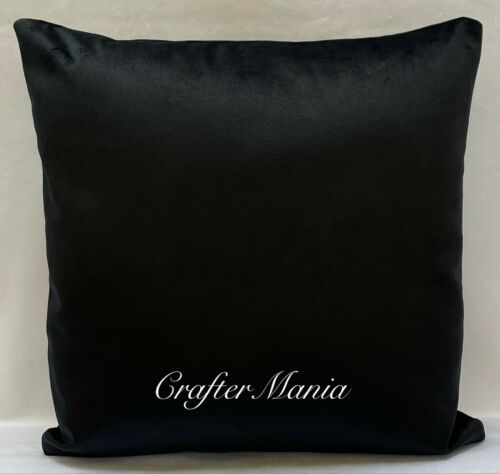
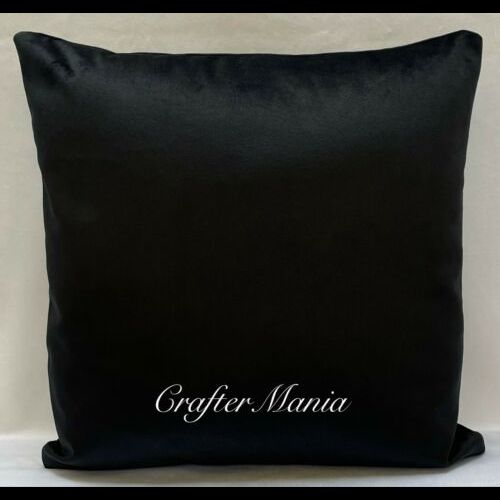
image hover jacascript functionality add

diff --git a/index.html b/index.html
@@ -236,21 +236,24 @@
                         <h2>CRAFTER MANIA </h2>
                     </div>
                     <div class="product-img">
-                        <img src="https://i.imgur.com/aLSeBV6.jpg" alt="product">
+                        <img id="main" src="https://i.imgur.com/pBHSUFn.jpg" alt="product">
                     </div>
 
                     <div class="grid-img-warp">
                         <div class="image1">
-                            <img src="https://i.imgur.com/ydcwGrI.jpg" alt="one">
+                            <img id="one" src="https://i.imgur.com/oU8TZfS.jpg" alt="one">
                         </div>
                         <div class="image1">
-                            <img src="https://i.imgur.com/HowzhbE.jpg" alt="one">
+                            <img id="two" src="https://i.imgur.com/l7yLrvP.jpg" alt="one">
                         </div>
                         <div class="image1">
-                            <img src="https://i.imgur.com/boUvOvT.jpg" alt="one">
+                            <img id="three" src="https://i.imgur.com/oLtjiZq.jpg" alt="one">
                         </div>
                         <div class="image1">
-                            <img src="https://i.imgur.com/VRT71sI.jpg" alt="one">
+                            <img id="four" src="https://i.imgur.com/M8pRg1h.jpg" alt="one">
+                        </div>
+                        <div class="image1">
+                            <img id="five" src="https://i.imgur.com/pBHSUFn.jpg" alt="one">
                         </div>
                     </div>
 
@@ -534,6 +537,35 @@
     <footer>
         <p> &copy; COPYRIGHT 2022 <strong>EBAY SELLER CRAFTER MANIA</strong> ALL RIGHTS RESERVED</p>
     </footer>
+
+
+
+
+    <script>
+        const mainImg = document.getElementById("main");
+        const oneImg = document.getElementById("one");
+        const twoImg = document.getElementById("two");
+        const threeImg = document.getElementById("three");
+        const fourImg = document.getElementById("four");
+        const fiveImg = document.getElementById("five");
+
+        oneImg.addEventListener('mouseover', function () {
+            document.getElementById("main").src = "https://i.imgur.com/oU8TZfS.jpg";
+        })
+        twoImg.addEventListener('mouseover', function () {
+            document.getElementById("main").src = "https://i.imgur.com/l7yLrvP.jpg";
+        })
+        threeImg.addEventListener('mouseover', function () {
+            document.getElementById("main").src = "https://i.imgur.com/oLtjiZq.jpg";
+        })
+        fourImg.addEventListener('mouseover', function () {
+            document.getElementById("main").src = "https://i.imgur.com/M8pRg1h.jpg";
+        })
+        fiveImg.addEventListener('mouseover', function () {
+            document.getElementById("main").src = "https://i.imgur.com/pBHSUFn.jpg";
+        })
+
+    </script>
 
 </body>
 
